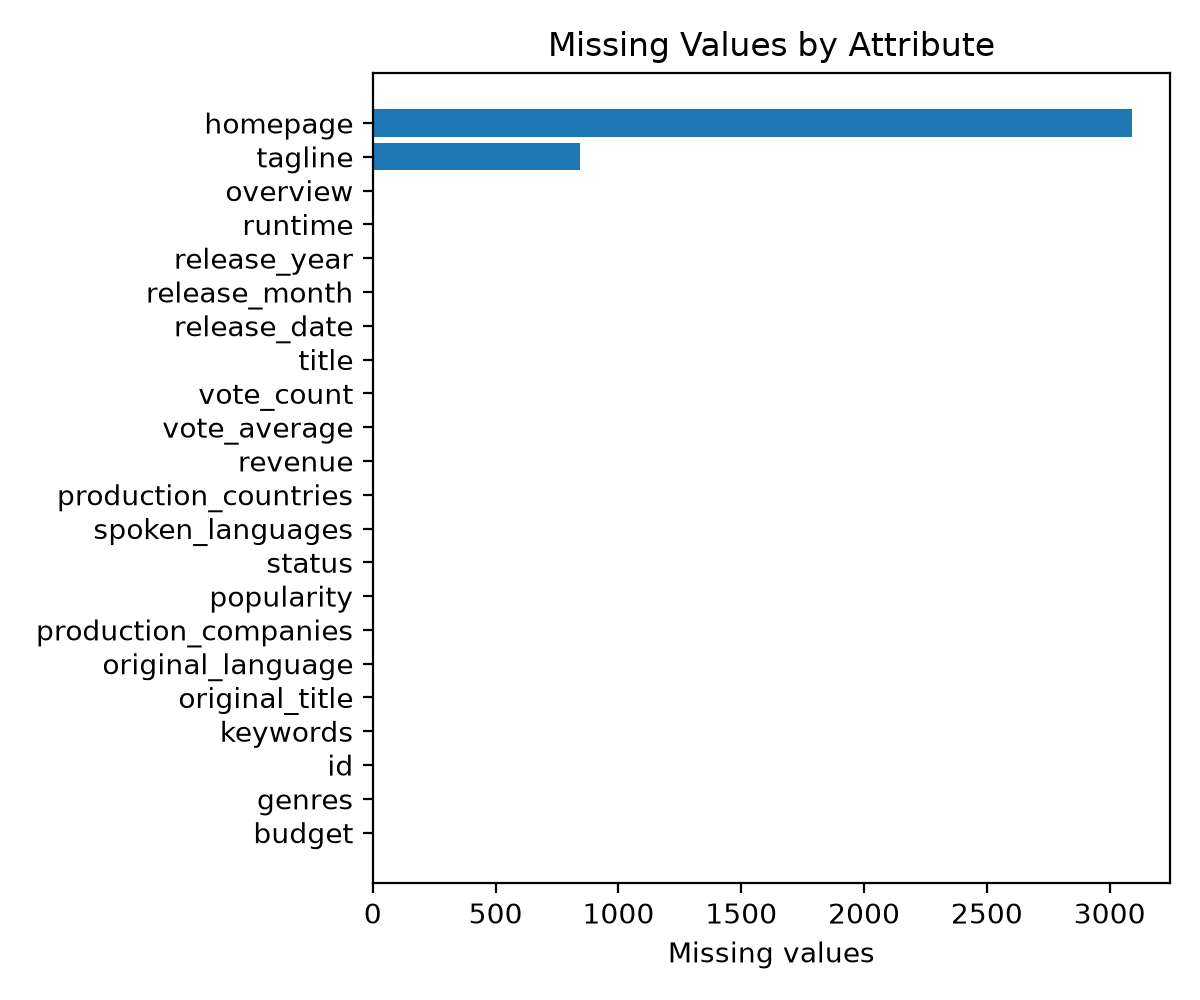
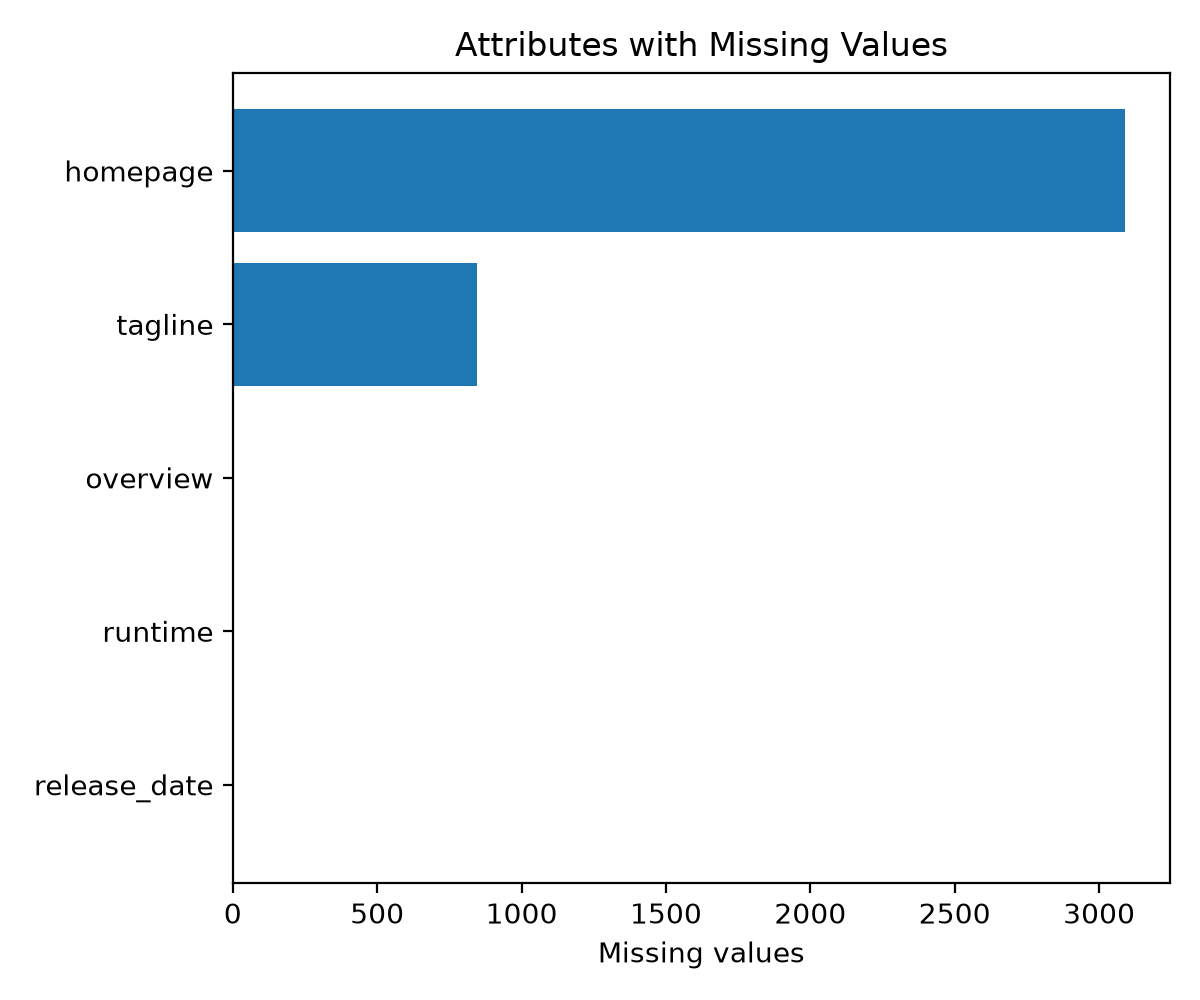
Fix missing values figure and dataset paths

diff --git a/Alp.py b/Alp.py
@@ -9,8 +9,8 @@ import pandas as pd
 os.makedirs("figures", exist_ok=True)
 os.makedirs("tables", exist_ok=True)
 
-movies = pd.read_csv("tmdb_5000_movies.csv")
-credits = pd.read_csv("tmdb_5000_credits.csv")
+movies = pd.read_csv("data/tmdb_5000_movies.csv")
+credits = pd.read_csv("data/tmdb_5000_credits.csv")
 
 print("movies:", movies.shape, "| credits:", credits.shape)
 print("id/movie_id match:", set(movies["id"]) == set(credits["movie_id"]))
